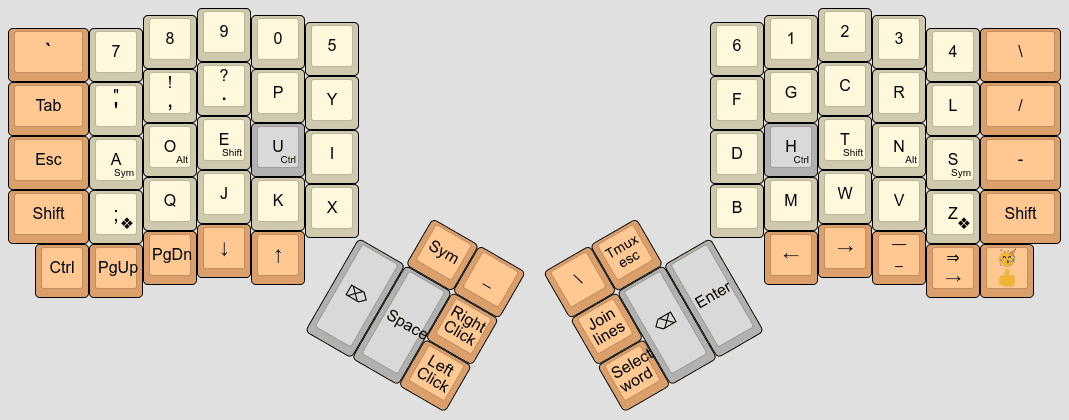
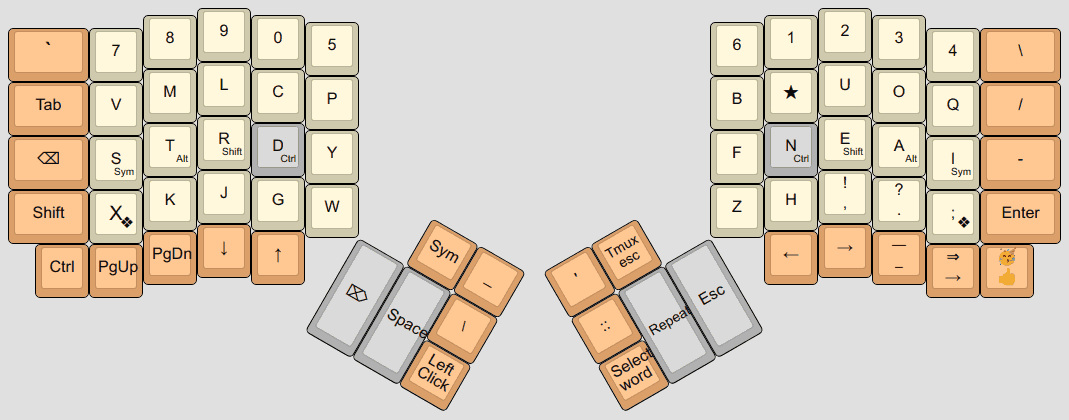
Update layout to Magic Sturdy

diff --git a/posts/keyboards/tour/index.html b/posts/keyboards/tour/index.html
@@ -137,8 +137,8 @@ layers</a> and use “layer switch keys” to access them. For instance, <a
 href="../symbol-layer/index.html">a symbol layer</a> is useful for
 programming. Never run out of keys.</p>
 <figure>
-<img src="layout_base.png" alt="My base layer (Dvorak layout)." />
-<figcaption aria-hidden="true">My base layer (Dvorak
+<img src="layout_base.png" alt="My base layer (Magic Sturdy layout)." />
+<figcaption aria-hidden="true">My base layer (Magic Sturdy
 layout).</figcaption>
 </figure>
 <figure>
